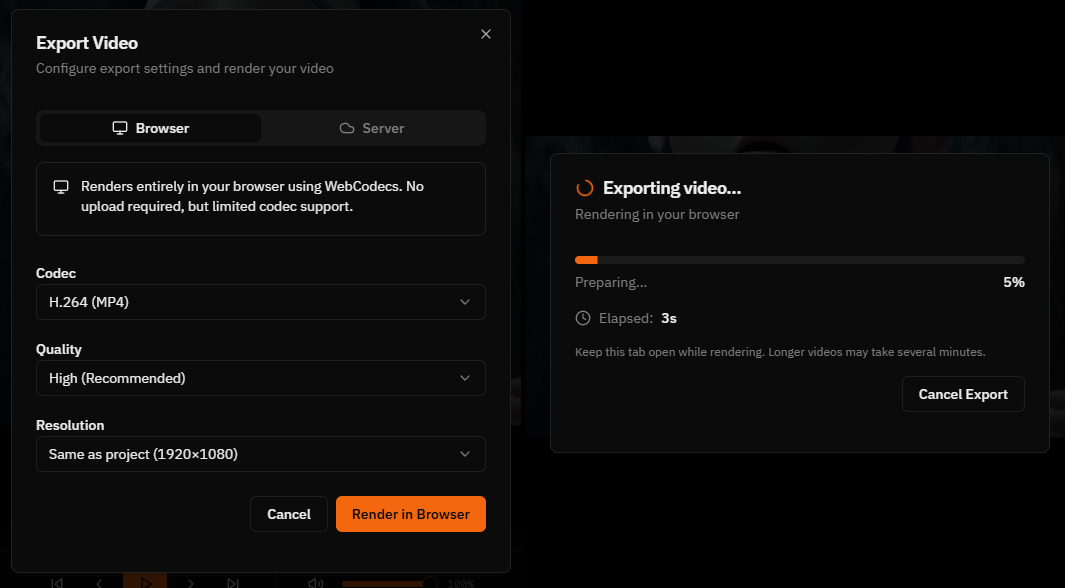
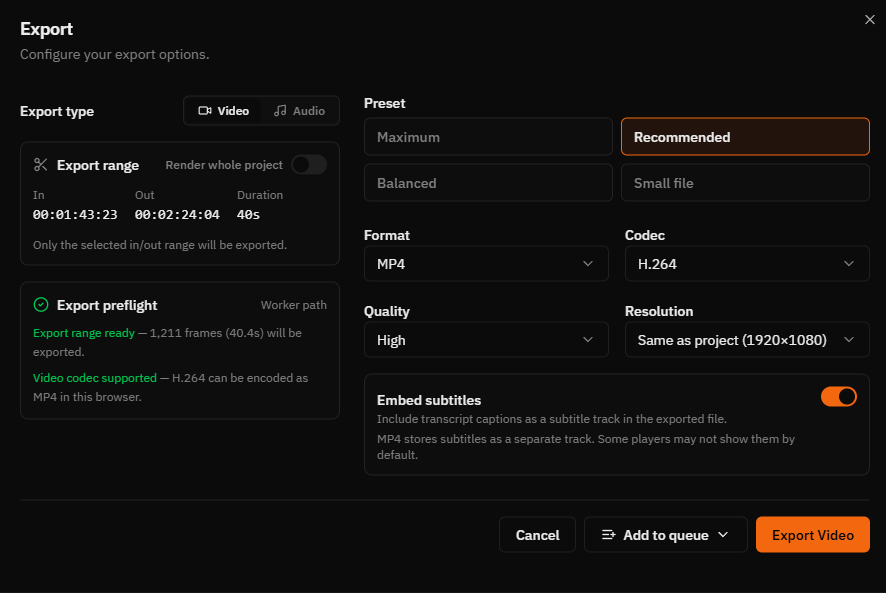
docs: refresh readme screenshots

diff --git a/README.md b/README.md
@@ -6,7 +6,7 @@
 
 [![License: MIT](https://img.shields.io/badge/License-MIT-blue.svg)](LICENSE)
 
-![FreeCut Timeline Editor](./public/assets/landing/timeline.png)
+![FreeCut editor workspace](./public/assets/landing/main.png)
 
 FreeCut is a browser-based, multi-track video editor. No install, no uploads:
 projects and media stay local, while editing, preview, analysis, transcription,
@@ -16,6 +16,41 @@ Workers, OPFS, and the File System Access API.
 FreeCut writes projects, linked media metadata, thumbnails, waveforms, generated
 AI assets, transcripts, scene cuts, and caches as plain files inside a workspace
 folder you choose on disk.
+
+## Screenshots
+
+<table>
+  <tr>
+    <td width="50%">
+      <strong>Timeline</strong><br />
+      <img src="./public/assets/landing/timeline.png" alt="FreeCut multi-track timeline" width="100%" />
+    </td>
+    <td width="50%">
+      <strong>Keyframes</strong><br />
+      <img src="./public/assets/landing/dopesheet.png" alt="FreeCut dopesheet keyframe editor" width="100%" />
+    </td>
+  </tr>
+  <tr>
+    <td width="50%">
+      <strong>Semantic scene search</strong><br />
+      <img src="./public/assets/landing/semantic.png" alt="FreeCut semantic scene browser" width="100%" />
+    </td>
+    <td width="50%">
+      <strong>Export</strong><br />
+      <img src="./public/assets/landing/export.png" alt="FreeCut export dialog" width="100%" />
+    </td>
+  </tr>
+  <tr>
+    <td width="50%">
+      <strong>Audio EQ</strong><br />
+      <img src="./public/assets/landing/eq.png" alt="FreeCut audio EQ controls" width="100%" />
+    </td>
+    <td width="50%">
+      <strong>Hotkeys</strong><br />
+      <img src="./public/assets/landing/hotkeys.png" alt="FreeCut hotkey editor" width="100%" />
+    </td>
+  </tr>
+</table>
 
 ## Features
 